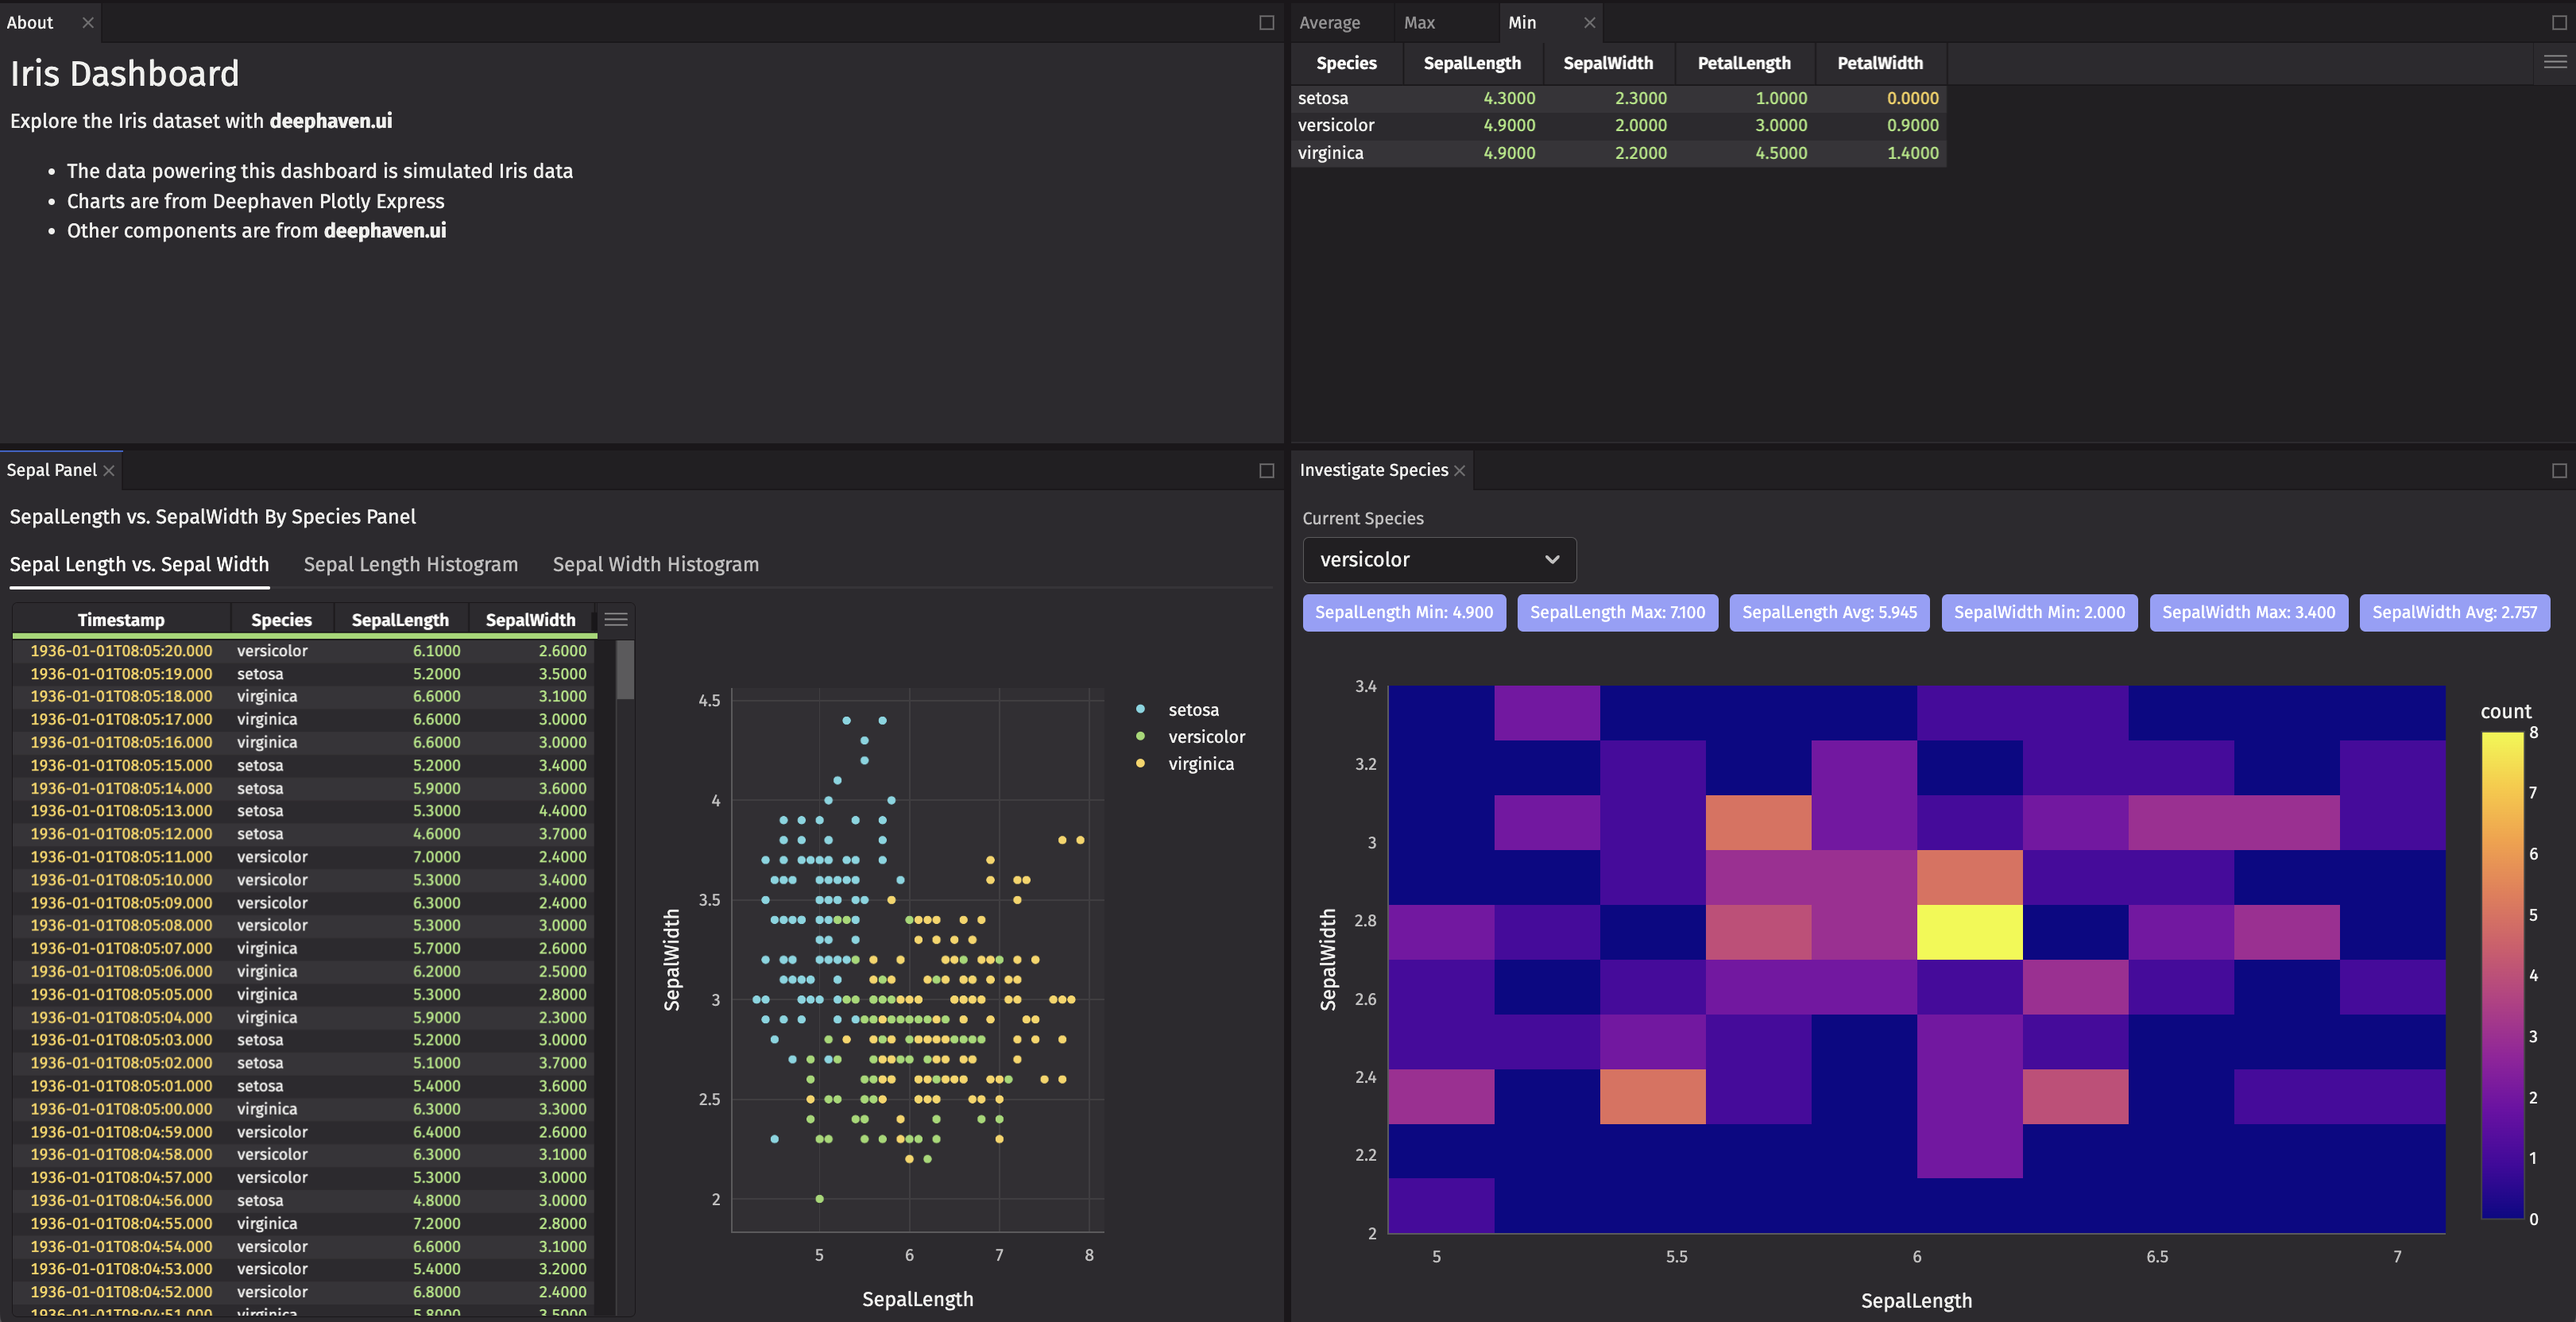
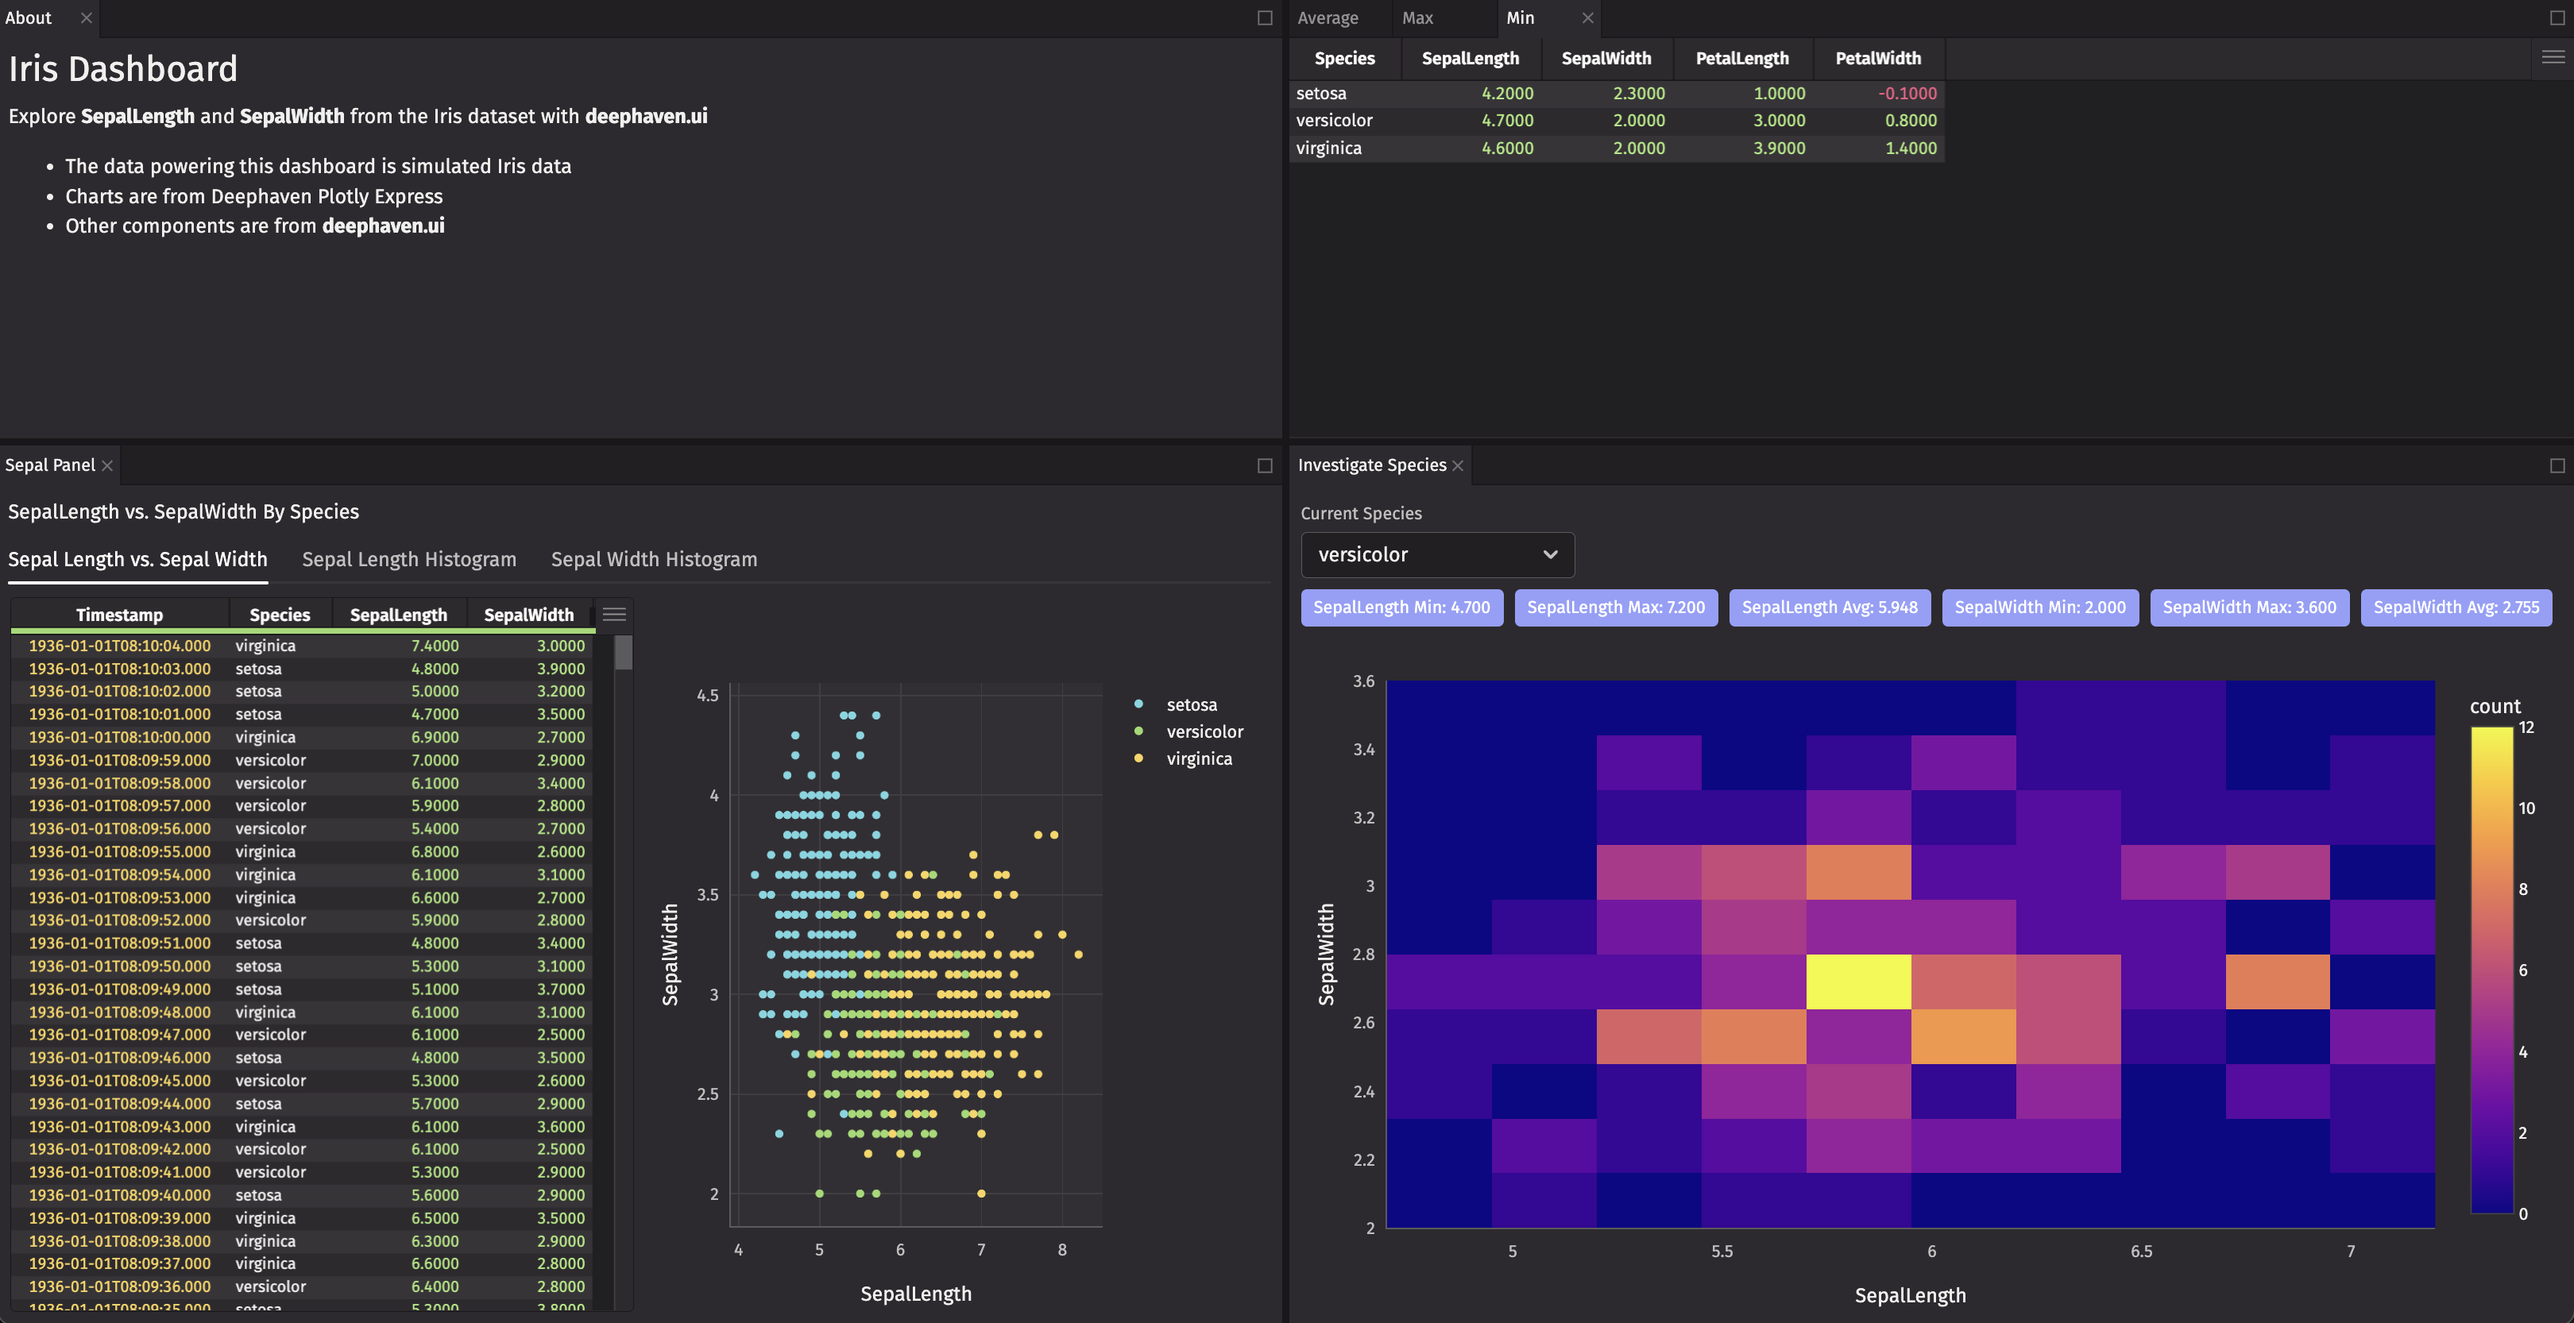
wip

diff --git a/plugins/ui/docs/tutorial.md b/plugins/ui/docs/tutorial.md
@@ -68,7 +68,7 @@ scatter_by_species = dx.scatter(iris, x = "SepalLength", y = "SepalWidth", by="S
 Basic text is added with the [`ui.text`](components/text.md) component. Create text to accompany the chart and table.
 
 ```py
-sepal_text = ui.text("SepalLength vs. SepalWidth By Species Panel")
+sepal_text = ui.text("SepalLength vs. SepalWidth By Species")
 ```
 
 ![img](_assets/deephaven-ui-crash-course/sepal_text.png)
@@ -416,6 +416,8 @@ iris_species_dashboard = ui.dashboard(
 ```
 ![img](_assets/deephaven-ui-crash-course/iris_species_dashboard.png)
 
+There is lots of empty space in the top row. Resize the height of the top row to 1 and the bottom row to 2 for a ratio of 1:2, so the bottom row is twice the height of the top row.  
+
 ```py
 iris_species_dashboard_resized = ui.dashboard(ui.column(ui.row(about_panel, iris_agg_stack, height=1), ui.row(sepal_panel, species_picker_panel, height=2)))
 ```
@@ -528,6 +530,7 @@ def summary_badges(species):
     sepal_width_avg = ui.use_cell_data(species_avg.view(["SepalWidth"]))
 
     # format the values to 3 decimal places
+    # set flex_grow to 0 to prevent the badges from growing
     return ui.flex(
         ui.badge(f"SepalLength Min: {sepal_length_min:.3f}", variant="info"),
         ui.badge(f"SepalLength Max: {sepal_length_max:.3f}", variant="info"),
@@ -535,6 +538,7 @@ def summary_badges(species):
         ui.badge(f"SepalWidth Min: {sepal_width_min:.3f}", variant="info"),
         ui.badge(f"SepalWidth Max: {sepal_width_max:.3f}", variant="info"),
         ui.badge(f"SepalWidth Avg: {sepal_width_avg:.3f}", variant="info"),
+        flex_grow=0,
     )
 
 
@@ -563,6 +567,60 @@ def create_species_dashboard():
         heatmap = dx.density_heatmap(filtered_table, x="SepalLength", y="SepalWidth")
 
         badges = summary_badges(species)
+
+    species_panel = ui.panel(
+        ui.flex(species_picker, badges, heatmap, direction="column"),
+        title="Investigate Species",
+    )
+
+    sepal_panel = create_sepal_panel(set_species)
+
+    return ui.column(
+        ui.row(about_panel, iris_agg_stack, height=1),
+        ui.row(sepal_panel, species_panel, height=2),
+    )
+
+
+iris_species_dashboard_badge = ui.dashboard(create_species_dashboard())
+```
+
+![img](_assets/deephaven-ui-crash-course/iris_species_dashboard_final.png)
+
+### `ui.use_memo`
+
+`ui.use_memo` allows you to cache expensive calculations so they are only recalculated when needed. `ui.use_memo` takes a function and a list of dependencies. If the dependencies change, the function is recalculated.
+Since you've added badges to the dashboard, the `dx.heatmap` is recreated every time any of the badges change, but only needs to be recreated when the `Species` changes.  
+Heatmap is a fairly expensive chart to create, requires a filtered table in this case, and changes rarely, so pull the heatmap creation into a separate function and use `ui.use_memo` to cache the heatmap creation.
+
+```python
+def create_heatmap(species):
+    heatmap = ui.illustrated_message(
+        ui.icon("vsFilter"),
+        ui.heading("Species required"),
+        ui.content("Select a species to display filtered table and chart."),
+        width="100%",
+    )
+
+    if species:
+        filtered_table = iris.where("Species = species")
+        heatmap = dx.density_heatmap(filtered_table, x="SepalLength", y="SepalWidth")
+
+    return heatmap
+
+
+@ui.component
+def create_species_dashboard():
+    species, set_species = ui.use_state()
+    species_picker = ui.picker(
+        species_table,
+        on_change=set_species,
+        selected_key=species,
+        label="Current Species",
+    )
+
+    heatmap = ui.use_memo(lambda: create_heatmap(species), [species])
+
+    badges = summary_badges(species) if species else None
 
     species_panel = ui.panel(
         ui.flex(species_picker, badges, heatmap, direction="column"),
@@ -681,6 +739,7 @@ def summary_badges(species):
   sepal_width_avg = ui.use_cell_data(species_avg.view(["SepalWidth"]))
 
   # format the values to 3 decimal places
+  # set flex_grow to 0 to prevent the badges from growing 
   return ui.flex(
     ui.badge(f"SepalLength Min: {sepal_length_min:.3f}", variant="info"), 
     ui.badge(f"SepalLength Max: {sepal_length_max:.3f}", variant="info"),
@@ -688,39 +747,48 @@ def summary_badges(species):
     ui.badge(f"SepalWidth Min: {sepal_width_min:.3f}", variant="info"), 
     ui.badge(f"SepalWidth Max: {sepal_width_max:.3f}", variant="info"),
     ui.badge(f"SepalWidth Avg: {sepal_width_avg:.3f}", variant="info"),
+    flex_grow=0
   )
-  
+
+def create_heatmap(species):
+    heatmap = ui.illustrated_message(
+        ui.icon("vsFilter"),
+        ui.heading("Species required"),
+        ui.content("Select a species to display filtered table and chart."),
+        width="100%",
+    )
+    
+    if species:
+        filtered_table = iris.where("Species = species")
+        heatmap = dx.density_heatmap(filtered_table, x="SepalLength", y="SepalWidth")
+        
+    return heatmap
+    
 @ui.component
 def create_species_dashboard():
-  species, set_species = ui.use_state()
-  species_picker = ui.picker(
-    species_table,
-    on_change=set_species,
-    selected_key=species,
-    label="Current Species"
-  )
-  
-  heatmap = ui.illustrated_message(
-      ui.icon("vsFilter"),
-      ui.heading("Species required"),
-      ui.content("Select a species to display filtered table and chart."),
-      width="100%",
-  )
+    species, set_species = ui.use_state()
+    species_picker = ui.picker(
+        species_table,
+        on_change=set_species,
+        selected_key=species,
+        label="Current Species",
+    )
+    
+    heatmap = ui.use_memo(lambda: create_heatmap(species), [species])
 
-  badges = None 
-  
-  if species:
-    filtered_table = iris.where("Species = species")
+    badges = summary_badges(species) if species else None
 
-    heatmap = dx.density_heatmap(filtered_table, x="SepalLength", y="SepalWidth")
-      
-    badges = summary_badges(species)
-      
-  species_panel = ui.panel(ui.flex(species_picker, badges, heatmap, direction="column"), title="Investigate Species")
-  
-  sepal_panel = create_sepal_panel(set_species)
-  
-  return ui.column(ui.row(about_panel, iris_agg_stack, height=1), ui.row(sepal_panel, species_panel, height=2))
+    species_panel = ui.panel(
+        ui.flex(species_picker, badges, heatmap, direction="column"),
+        title="Investigate Species",
+    )
+
+    sepal_panel = create_sepal_panel(set_species)
+
+    return ui.column(
+        ui.row(about_panel, iris_agg_stack, height=1),
+        ui.row(sepal_panel, species_panel, height=2),
+    )
 
 iris_species_dashboard_final = ui.dashboard(create_species_dashboard())
 ```
@@ -746,12 +814,13 @@ This wraps up the `deephaven.ui` dashboard crash course. In this course you lear
 - [`ui.picker`](components/picker.md)
 - [`ui.use_state`](hooks/use_state.md)
 - [`ui.illustrated_message`](components/illustrated_message.md)
+- [`ui.badge`](components/illustrated_message.md)
 - [`ui.use_cell_data`](hooks/use_cell_data.md)
 - [`ui.use_row_data`](hooks/use_row_data.md)
 - [`ui.use_row_list`](hooks/use_row_list.md)
 - [`ui.use_column_data`](hooks/use_column_data.md)
 - [`ui.use_table_data`](hooks/use_table_data.md)
-- [`ui.badge`](components/illustrated_message.md)
+- [`ui.use_memo`](hooks/use_memo.md)
 - [`dx.scatter`](../../plotly-express/main/scatter.md)
 - [`dx.histogram`](../../plotly-express/main/histogram.md)
 - [`dx.densityheatmap`](../../plotly-express/main/density_heatmap.md)
